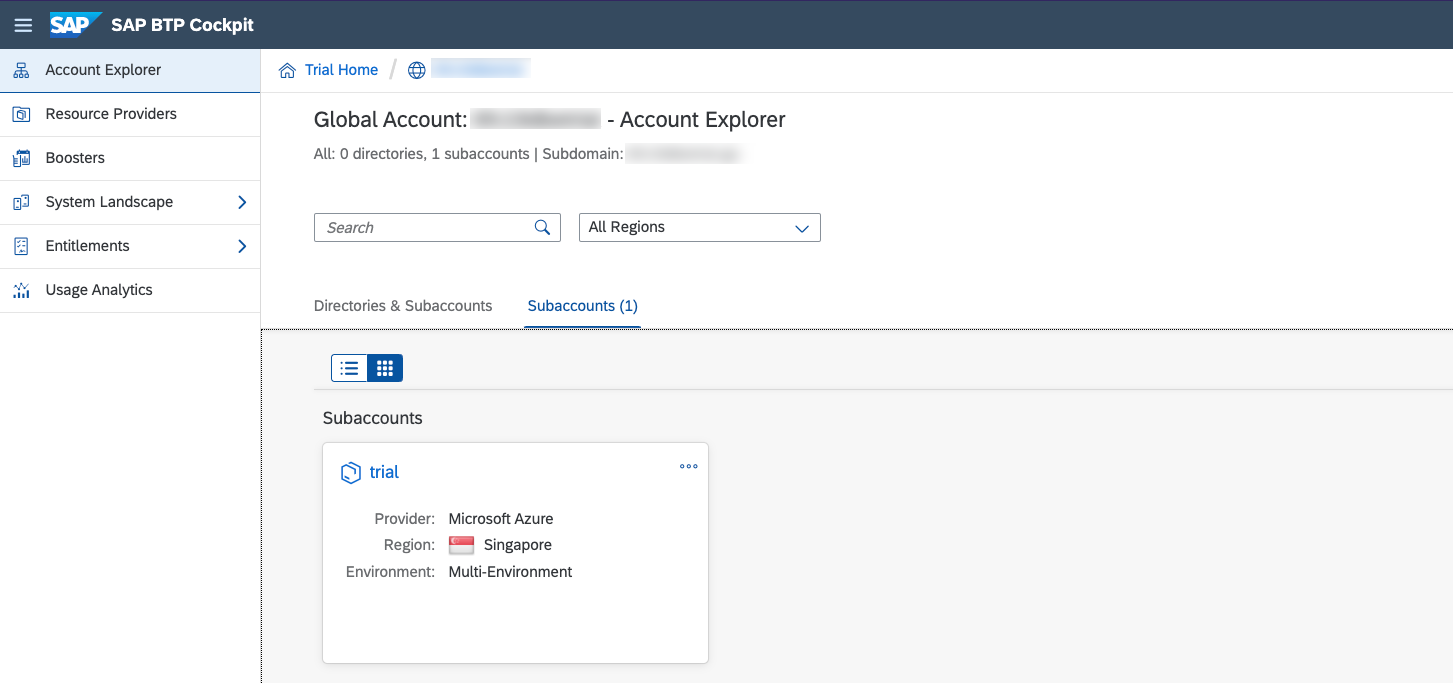
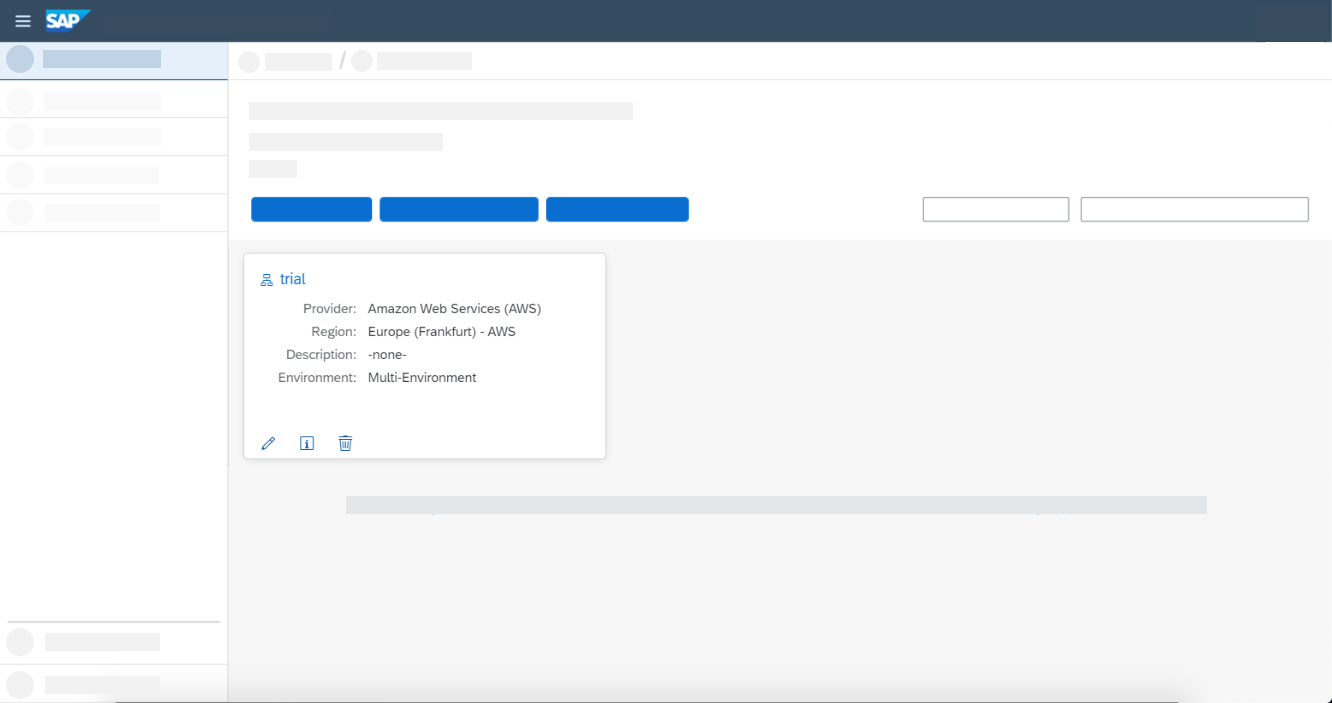
Prerequisites

diff --git a/prerequisites/README.md b/prerequisites/README.md
@@ -7,7 +7,7 @@ If you already have an SAP BTP Trial account, you don't need to create a new one
 
 ## Step 1 - Setting up BTP Trial
 
-In this unit we lay the foundation for the other weeks in this course. You will frequently use SAP Business Technology Platform services that are part of the SAP Business Technology Platform Trial. In the following you will create your own trial account. 
+In the following you will create your own trial account. 
 
 ---
 
@@ -67,7 +67,7 @@ You will see one main button on the welcome screen of the SAP BTP Cockpit. Click
 
 This page will display the current state of the subaccount. You can manage your subscriptions and jump into the different runtime environments. It also shows you fundamental information of the Cloud Foundry environment, such as the API endpoint and the available spaces.
 
-![Trial Subaccount](./images/trial_globalaccount.png)
+![Trial Subaccount](./images/trial_subaccount.png)
 
 ## Summary
 
